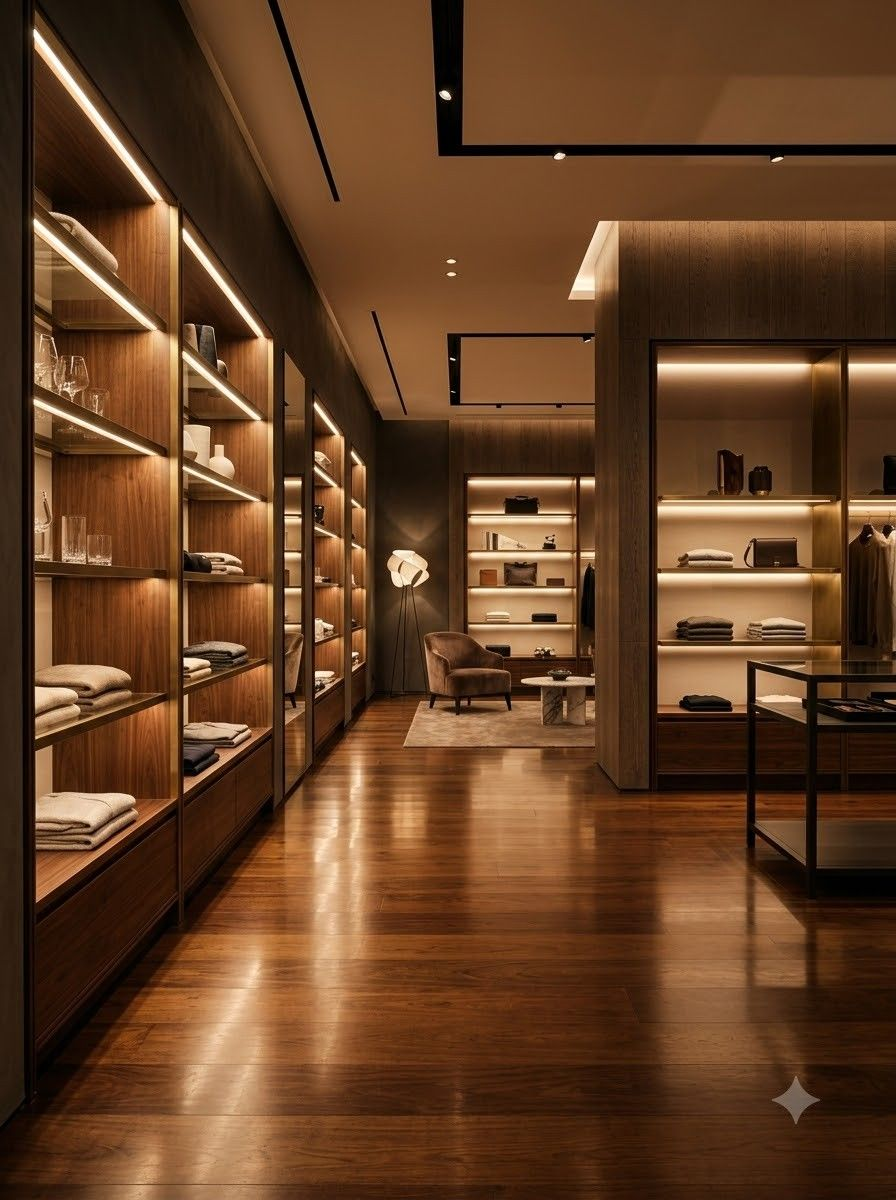
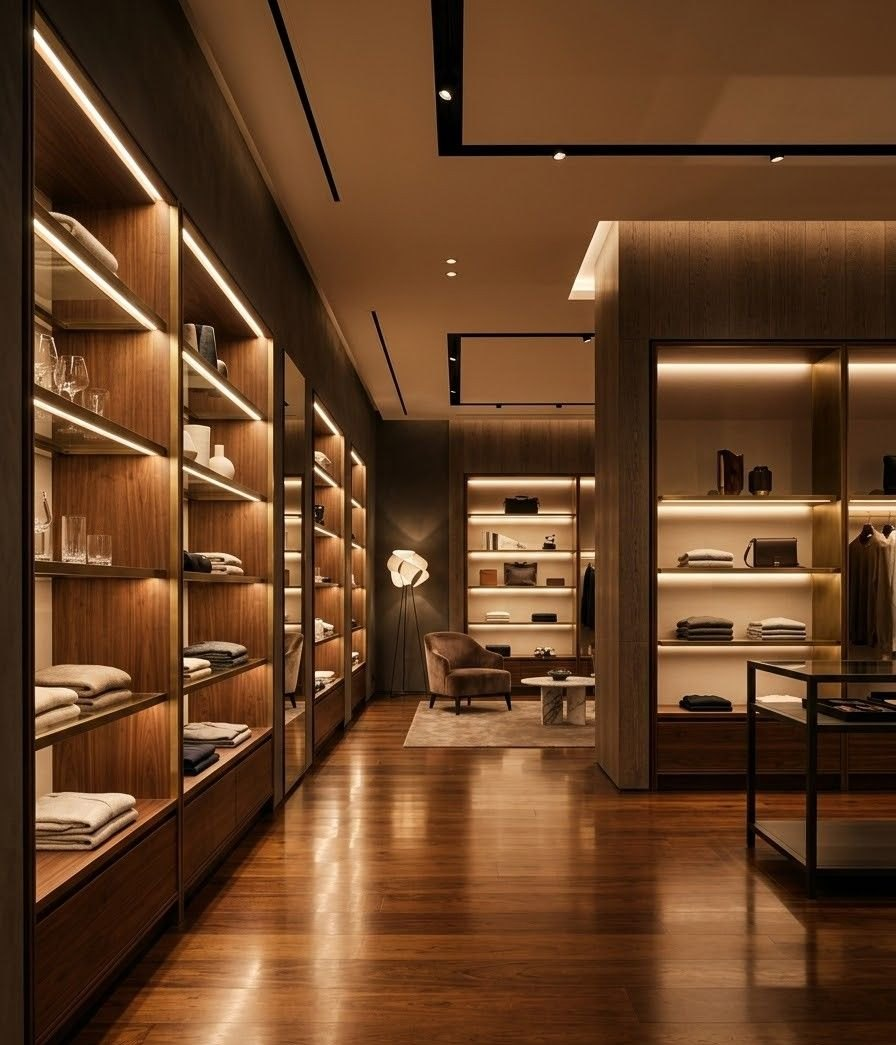
Crop the generator watermark off every image
Every frame arrived with the image tool's sparkle stamped at a fixed inset in
the bottom-right corner. Regenerating does not help — the same mark lands on
every output — so it is cropped away and the img width/height attributes are
resynced to the new dimensions.

Cropping rather than inpainting: filling the patch leaves a soft blurred square
that reads worse than the watermark on any textured surface.

diff --git a/index.html b/index.html
@@ -83,15 +83,15 @@
 
         <div class="hero-mosaic reveal">
           <a class="hm hm--lead media" href="case-studies.html#commercial">
-            <img src="assets/img/hero.jpg" alt="Commercial building delivered by WORKAID" width="1200" height="896" fetchpriority="high">
+            <img src="assets/img/hero.jpg" alt="Commercial building delivered by WORKAID" width="1200" height="741" fetchpriority="high">
             <span class="hm-tag">Commercial</span>
           </a>
           <a class="hm media" href="case-studies.html#residential">
-            <img src="assets/img/project-1.jpg" alt="Residential interior execution" width="1200" height="896" loading="lazy">
+            <img src="assets/img/project-1.jpg" alt="Residential interior execution" width="1200" height="741" loading="lazy">
             <span class="hm-tag">Residential</span>
           </a>
           <a class="hm media" href="case-studies.html#industrial">
-            <img src="assets/img/project-4.jpg" alt="Industrial plant maintenance" width="1200" height="896" loading="lazy">
+            <img src="assets/img/project-4.jpg" alt="Industrial plant maintenance" width="1200" height="741" loading="lazy">
             <span class="hm-tag">Industrial</span>
           </a>
           <span class="hm-badge"><b>6</b> sectors served across Odisha</span>
@@ -137,7 +137,7 @@
 
         <article class="card reveal">
           <div class="media media--ratio-16x9" style="margin:-1.25rem -1.25rem 1.4rem">
-            <img src="assets/img/service-home.jpg" alt="Residential maintenance and interior work" width="1000" height="700" loading="lazy">
+            <img src="assets/img/service-home.jpg" alt="Residential maintenance and interior work" width="1200" height="741" loading="lazy">
           </div>
           <span class="card-num">01 — Home &amp; Residence</span>
           <h3>Home &amp; residence repair (technical)</h3>
@@ -155,7 +155,7 @@
 
         <article class="card reveal">
           <div class="media media--ratio-16x9" style="margin:-1.25rem -1.25rem 1.4rem">
-            <img src="assets/img/service-industry.jpg" alt="Industrial and business support services" width="1000" height="700" loading="lazy">
+            <img src="assets/img/service-industry.jpg" alt="Industrial and business support services" width="1200" height="741" loading="lazy">
           </div>
           <span class="card-num">02 — Industry</span>
           <h3>Industry &amp; business support</h3>
@@ -190,27 +190,27 @@
 
       <div class="industries reveal">
         <a class="industry" href="case-studies.html#residential">
-          <img src="assets/img/industry-residential.jpg" alt="Residential projects" width="700" height="900" loading="lazy">
+          <img src="assets/img/industry-residential.jpg" alt="Residential projects" width="896" height="1045" loading="lazy">
           <span class="industry-label"><svg class="ico"><use href="#i-home"></use></svg><span>Residential</span></span>
         </a>
         <a class="industry" href="case-studies.html#commercial">
-          <img src="assets/img/industry-commercial.jpg" alt="Commercial projects" width="700" height="900" loading="lazy">
+          <img src="assets/img/industry-commercial.jpg" alt="Commercial projects" width="896" height="1045" loading="lazy">
           <span class="industry-label"><svg class="ico"><use href="#i-building"></use></svg><span>Commercial</span></span>
         </a>
         <a class="industry" href="case-studies.html#industrial">
-          <img src="assets/img/industry-industrial.jpg" alt="Industrial projects" width="700" height="900" loading="lazy">
+          <img src="assets/img/industry-industrial.jpg" alt="Industrial projects" width="896" height="1045" loading="lazy">
           <span class="industry-label"><svg class="ico"><use href="#i-factory"></use></svg><span>Industrial</span></span>
         </a>
         <a class="industry" href="case-studies.html#hospitality">
-          <img src="assets/img/industry-hospitality.jpg" alt="Hospitality projects" width="700" height="900" loading="lazy">
+          <img src="assets/img/industry-hospitality.jpg" alt="Hospitality projects" width="896" height="1045" loading="lazy">
           <span class="industry-label"><svg class="ico"><use href="#i-coffee"></use></svg><span>Hospitality</span></span>
         </a>
         <a class="industry" href="case-studies.html#healthcare">
-          <img src="assets/img/industry-healthcare.jpg" alt="Healthcare projects" width="700" height="900" loading="lazy">
+          <img src="assets/img/industry-healthcare.jpg" alt="Healthcare projects" width="896" height="1045" loading="lazy">
           <span class="industry-label"><svg class="ico"><use href="#i-activity"></use></svg><span>Healthcare</span></span>
         </a>
         <a class="industry" href="case-studies.html#retail">
-          <img src="assets/img/industry-retail.jpg" alt="Retail projects" width="700" height="900" loading="lazy">
+          <img src="assets/img/industry-retail.jpg" alt="Retail projects" width="896" height="1045" loading="lazy">
           <span class="industry-label"><svg class="ico"><use href="#i-shopping-bag"></use></svg><span>Retail</span></span>
         </a>
       </div>
@@ -270,19 +270,19 @@
 
       <div class="tiles g-4">
         <a class="tile reveal" href="case-studies.html#residential">
-          <div class="media"><img src="assets/img/project-1.jpg" alt="Luxury villa interior execution" width="900" height="700" loading="lazy"></div>
+          <div class="media"><img src="assets/img/project-1.jpg" alt="Luxury villa interior execution" width="1200" height="741" loading="lazy"></div>
           <div class="tile-meta"><div><h3>Luxury Villa</h3><span>Residential</span></div></div>
         </a>
         <a class="tile reveal" href="case-studies.html#commercial">
-          <div class="media"><img src="assets/img/project-2.jpg" alt="Corporate office fit-out" width="900" height="700" loading="lazy"></div>
+          <div class="media"><img src="assets/img/project-2.jpg" alt="Corporate office fit-out" width="1200" height="741" loading="lazy"></div>
           <div class="tile-meta"><div><h3>Corporate Office</h3><span>Commercial</span></div></div>
         </a>
         <a class="tile reveal" href="case-studies.html#hospitality">
-          <div class="media"><img src="assets/img/project-3.jpg" alt="Fine dine restaurant renovation" width="900" height="700" loading="lazy"></div>
+          <div class="media"><img src="assets/img/project-3.jpg" alt="Fine dine restaurant renovation" width="1200" height="741" loading="lazy"></div>
           <div class="tile-meta"><div><h3>Fine Dine Restaurant</h3><span>Hospitality</span></div></div>
         </a>
         <a class="tile reveal" href="case-studies.html#industrial">
-          <div class="media"><img src="assets/img/project-4.jpg" alt="Industrial plant support" width="900" height="700" loading="lazy"></div>
+          <div class="media"><img src="assets/img/project-4.jpg" alt="Industrial plant support" width="1200" height="741" loading="lazy"></div>
           <div class="tile-meta"><div><h3>Industrial Plant</h3><span>Industrial</span></div></div>
         </a>
       </div>
@@ -294,7 +294,7 @@
     <div class="wrap">
       <div class="split split--wide-media">
         <div class="media reveal">
-          <img src="assets/img/why-choose.jpg" alt="Completed WORKAID project handover" width="1000" height="800" loading="lazy">
+          <img src="assets/img/why-choose.jpg" alt="Completed WORKAID project handover" width="1200" height="741" loading="lazy">
         </div>
         <div class="reveal">
           <span class="eyebrow">Why choose WORKAID</span>
@@ -372,7 +372,7 @@
               </div>
               <div class="quote-who"><b>Rahul Mehta</b><span>Business Owner</span></div>
             </div>
-            <div class="quote-media media"><img src="assets/img/testimonial.jpg" alt="" width="900" height="700" loading="lazy"></div>
+            <div class="quote-media media"><img src="assets/img/testimonial.jpg" alt="" width="1200" height="741" loading="lazy"></div>
           </div>
 
           <div class="quote-wrap">
@@ -385,7 +385,7 @@
               </div>
               <div class="quote-who"><b>S. Pattnaik</b><span>Secretary, Housing Society</span></div>
             </div>
-            <div class="quote-media media"><img src="assets/img/project-5.jpg" alt="" width="900" height="700" loading="lazy"></div>
+            <div class="quote-media media"><img src="assets/img/project-5.jpg" alt="" width="1200" height="741" loading="lazy"></div>
           </div>
 
           <div class="quote-wrap">
@@ -398,7 +398,7 @@
               </div>
               <div class="quote-who"><b>A. Sahoo</b><span>Director, Fabrication Unit</span></div>
             </div>
-            <div class="quote-media media"><img src="assets/img/project-6.jpg" alt="" width="900" height="700" loading="lazy"></div>
+            <div class="quote-media media"><img src="assets/img/project-6.jpg" alt="" width="1200" height="741" loading="lazy"></div>
           </div>
 
         </div>

diff --git a/case-studies.html b/case-studies.html
@@ -75,7 +75,7 @@
 
         <article class="card reveal" data-cat="residential">
           <div class="media media--ratio-4x3" style="margin:-1.25rem -1.25rem 1.3rem">
-            <img src="assets/img/project-5.jpg" alt="Terrace waterproofing on a residential tower" width="900" height="700" loading="lazy">
+            <img src="assets/img/project-5.jpg" alt="Terrace waterproofing on a residential tower" width="1200" height="741" loading="lazy">
           </div>
           <span class="tag tag--solid">Residential</span>
           <h3 style="margin-top:.9rem">Terrace that leaked through two monsoons</h3>
@@ -92,7 +92,7 @@
 
         <article class="card reveal" data-cat="residential">
           <div class="media media--ratio-4x3" style="margin:-1.25rem -1.25rem 1.3rem">
-            <img src="assets/img/project-1.jpg" alt="Villa interior execution" width="900" height="700" loading="lazy">
+            <img src="assets/img/project-1.jpg" alt="Villa interior execution" width="1200" height="741" loading="lazy">
           </div>
           <span class="tag tag--solid">Residential</span>
           <h3 style="margin-top:.9rem">Villa interiors, built to the architect's drawing</h3>
@@ -108,7 +108,7 @@
 
         <article class="card reveal" data-cat="commercial">
           <div class="media media--ratio-4x3" style="margin:-1.25rem -1.25rem 1.3rem">
-            <img src="assets/img/project-2.jpg" alt="Corporate office fit-out" width="900" height="700" loading="lazy">
+            <img src="assets/img/project-2.jpg" alt="Corporate office fit-out" width="1200" height="741" loading="lazy">
           </div>
           <span class="tag tag--solid">Commercial</span>
           <h3 style="margin-top:.9rem">Office fit-out around a working floor</h3>
@@ -123,7 +123,7 @@
 
         <article class="card reveal" data-cat="hospitality">
           <div class="media media--ratio-4x3" style="margin:-1.25rem -1.25rem 1.3rem">
-            <img src="assets/img/project-3.jpg" alt="Fine dine restaurant renovation" width="900" height="700" loading="lazy">
+            <img src="assets/img/project-3.jpg" alt="Fine dine restaurant renovation" width="1200" height="741" loading="lazy">
           </div>
           <span class="tag tag--solid">Hospitality</span>
           <h3 style="margin-top:.9rem">Restaurant renovation on a fixed reopening date</h3>
@@ -139,7 +139,7 @@
 
         <article class="card reveal" data-cat="industrial">
           <div class="media media--ratio-4x3" style="margin:-1.25rem -1.25rem 1.3rem">
-            <img src="assets/img/project-4.jpg" alt="Industrial plant maintenance" width="900" height="700" loading="lazy">
+            <img src="assets/img/project-4.jpg" alt="Industrial plant maintenance" width="1200" height="741" loading="lazy">
           </div>
           <span class="tag tag--solid">Industrial</span>
           <h3 style="margin-top:.9rem">Plant upkeep moved from reactive to scheduled</h3>
@@ -155,7 +155,7 @@
 
         <article class="card reveal" data-cat="industrial">
           <div class="media media--ratio-4x3" style="margin:-1.25rem -1.25rem 1.3rem">
-            <img src="assets/img/project-6.jpg" alt="MSME compliance and licensing support" width="900" height="700" loading="lazy">
+            <img src="assets/img/project-6.jpg" alt="MSME compliance and licensing support" width="1200" height="741" loading="lazy">
           </div>
           <span class="tag tag--solid">Industrial</span>
           <h3 style="margin-top:.9rem">Licences, renewals and a calendar that owns itself</h3>
@@ -171,7 +171,7 @@
 
         <article class="card reveal" data-cat="retail">
           <div class="media media--ratio-4x3" style="margin:-1.25rem -1.25rem 1.3rem">
-            <img src="assets/img/project-7.jpg" alt="Retail chain standardisation" width="900" height="700" loading="lazy">
+            <img src="assets/img/project-7.jpg" alt="Retail chain standardisation" width="1200" height="741" loading="lazy">
           </div>
           <span class="tag tag--solid">Retail</span>
           <h3 style="margin-top:.9rem">Four outlets that finally looked like one brand</h3>
@@ -187,7 +187,7 @@
 
         <article class="card reveal" data-cat="healthcare">
           <div class="media media--ratio-4x3" style="margin:-1.25rem -1.25rem 1.3rem">
-            <img src="assets/img/project-8.jpg" alt="Diagnostic centre facility maintenance" width="900" height="700" loading="lazy">
+            <img src="assets/img/project-8.jpg" alt="Diagnostic centre facility maintenance" width="1200" height="741" loading="lazy">
           </div>
           <span class="tag tag--solid">Healthcare</span>
           <h3 style="margin-top:.9rem">A diagnostic centre that cannot afford downtime</h3>

diff --git a/resources.html b/resources.html
@@ -74,7 +74,7 @@
 
         <article class="card reveal" data-cat="waterproofing">
           <div class="media media--ratio-16x9" style="margin:-1.25rem -1.25rem 1.3rem">
-            <img src="assets/img/resource-1.jpg" alt="" width="900" height="600" loading="lazy">
+            <img src="assets/img/resource-1.jpg" alt="" width="1200" height="741" loading="lazy">
           </div>
           <span class="tag">Waterproofing</span>
           <h3 style="margin-top:.9rem">Choosing a waterproofing system that suits the surface</h3>
@@ -90,7 +90,7 @@
 
         <article class="card reveal" data-cat="waterproofing maintenance">
           <div class="media media--ratio-16x9" style="margin:-1.25rem -1.25rem 1.3rem">
-            <img src="assets/img/resource-3.jpg" alt="" width="900" height="600" loading="lazy">
+            <img src="assets/img/resource-3.jpg" alt="" width="1200" height="741" loading="lazy">
           </div>
           <span class="tag">Waterproofing</span>
           <h3 style="margin-top:.9rem">Reading a damp patch: where the water actually came from</h3>
@@ -107,7 +107,7 @@
 
         <article class="card reveal" data-cat="maintenance">
           <div class="media media--ratio-16x9" style="margin:-1.25rem -1.25rem 1.3rem">
-            <img src="assets/img/resource-6.jpg" alt="" width="900" height="600" loading="lazy">
+            <img src="assets/img/resource-6.jpg" alt="" width="1200" height="741" loading="lazy">
           </div>
           <span class="tag">Maintenance</span>
           <h3 style="margin-top:.9rem">What a good AMC actually covers</h3>
@@ -123,7 +123,7 @@
 
         <article class="card reveal" data-cat="interiors">
           <div class="media media--ratio-16x9" style="margin:-1.25rem -1.25rem 1.3rem">
-            <img src="assets/img/resource-4.jpg" alt="" width="900" height="600" loading="lazy">
+            <img src="assets/img/resource-4.jpg" alt="" width="1200" height="741" loading="lazy">
           </div>
           <span class="tag">Interiors</span>
           <h3 style="margin-top:.9rem">Planning a renovation you have to live through</h3>
@@ -139,7 +139,7 @@
 
         <article class="card reveal" data-cat="compliance">
           <div class="media media--ratio-16x9" style="margin:-1.25rem -1.25rem 1.3rem">
-            <img src="assets/img/resource-2.jpg" alt="" width="900" height="600" loading="lazy">
+            <img src="assets/img/resource-2.jpg" alt="" width="1200" height="741" loading="lazy">
           </div>
           <span class="tag">Compliance</span>
           <h3 style="margin-top:.9rem">The MSME document set worth keeping current</h3>
@@ -155,7 +155,7 @@
 
         <article class="card reveal" data-cat="operations">
           <div class="media media--ratio-16x9" style="margin:-1.25rem -1.25rem 1.3rem">
-            <img src="assets/img/resource-5.jpg" alt="" width="900" height="600" loading="lazy">
+            <img src="assets/img/resource-5.jpg" alt="" width="1200" height="741" loading="lazy">
           </div>
           <span class="tag">Operations</span>
           <h3 style="margin-top:.9rem">Mapping a process before trying to improve it</h3>

diff --git a/about.html b/about.html
@@ -64,7 +64,7 @@
     <div class="wrap">
       <div class="split">
         <div class="media reveal">
-          <img src="assets/img/about-hero.jpg" alt="The WORKAID team on site" width="1400" height="900" loading="lazy">
+          <img src="assets/img/about-hero.jpg" alt="The WORKAID team on site" width="1200" height="741" loading="lazy">
         </div>
         <div class="reveal">
           <span class="eyebrow">Who we are</span>
@@ -181,7 +181,7 @@
           <a class="btn btn--ink" href="services.html" style="margin-top:2rem">Explore services <svg class="ico"><use href="#i-arrow-right"></use></svg></a>
         </div>
         <div class="media reveal">
-          <img src="assets/img/about-story.jpg" alt="WORKAID execution team at work" width="1000" height="800" loading="lazy">
+          <img src="assets/img/about-story.jpg" alt="WORKAID execution team at work" width="1200" height="741" loading="lazy">
         </div>
       </div>
     </div>
@@ -230,7 +230,7 @@
     <div class="wrap">
       <div class="split">
         <div class="media reveal">
-          <img src="assets/img/contact-office.jpg" alt="WORKAID office in Bhubaneswar" width="1000" height="700" loading="lazy">
+          <img src="assets/img/contact-office.jpg" alt="WORKAID office in Bhubaneswar" width="1200" height="741" loading="lazy">
         </div>
         <div class="reveal">
           <span class="eyebrow">Where we work</span>

diff --git a/contact.html b/contact.html
@@ -221,7 +221,7 @@
             see the README for the one-line snippet.</p>
         </div>
         <div class="media reveal">
-          <img src="assets/img/contact-office.jpg" alt="WORKAID office location in Bhubaneswar" width="1000" height="700" loading="lazy">
+          <img src="assets/img/contact-office.jpg" alt="WORKAID office location in Bhubaneswar" width="1200" height="741" loading="lazy">
         </div>
       </div>
     </div>

diff --git a/tools/remove_watermark.py b/tools/remove_watermark.py
@@ -1,0 +1,49 @@
+"""
+Removes the generator's sparkle watermark from assets/img by cropping.
+
+Every frame produced by the image tool carries a solid four-pointed star stamped
+at a fixed inset — centred about 102px from the right edge and 102px from the
+bottom, roughly 46px across — regardless of subject. It is in the same place on
+every image, so no detection is needed.
+
+Cropping, not inpainting. Inpainting the patch leaves a soft blurred square that
+is more conspicuous than the watermark on any textured surface (wood grain,
+paving, marble). Trimming the bottom edge past the mark is lossless for the rest
+of the frame, and the site's containers use object-fit: cover, so a changed
+aspect ratio costs nothing.
+
+Run once:  python tools/remove_watermark.py
+NOT idempotent — each run trims another strip. Restore from git before re-running.
+"""
+
+import glob
+import os
+
+from PIL import Image
+
+HERE = os.path.dirname(os.path.dirname(os.path.abspath(__file__)))
+IMG = os.path.join(HERE, "assets", "img")
+
+# The mark's outer edge reaches ~136px from the bottom. Trim past it with margin.
+TRIM = 155
+
+
+def clean(path):
+    im = Image.open(path)
+    w, h = im.size
+    scale = max(w, h) / 1200.0
+    trim = int(round(TRIM * scale))
+    if h - trim < 200:
+        print("skipped (too small)", os.path.basename(path))
+        return False
+    im.crop((0, 0, w, h - trim)).save(path, "JPEG", quality=86,
+                                      optimize=True, progressive=True)
+    return True
+
+
+if __name__ == "__main__":
+    n = 0
+    for f in sorted(glob.glob(os.path.join(IMG, "*.jpg"))):
+        if clean(f):
+            n += 1
+    print(n, "images cropped")

diff --git a/README.md b/README.md
@@ -65,6 +65,13 @@ version forever — show the photos in full colour instead.
 Nano Banana 2 — 20 originals at 1200px, a few reused across more than one slot).
 They are stand-ins, not photographs of WORKAID's work.
 
+Every generated frame arrived with the tool's sparkle watermark stamped in the
+bottom-right corner. `tools/remove_watermark.py` crops it off. Cropping, not
+inpainting — filling the patch leaves a blurred square that is more conspicuous
+than the mark itself on wood grain, paving or marble. The script is **not**
+idempotent: each run trims another strip, so restore from git before re-running.
+Any replacement image generated by the same tool will need the same treatment.
+
 Each file is a drop-in slot: replace it with a real photo of the same aspect ratio
 and no HTML or CSS needs to change. Swap them for genuine project photography before
 launch — a services company showing other people's buildings is a claim it cannot
